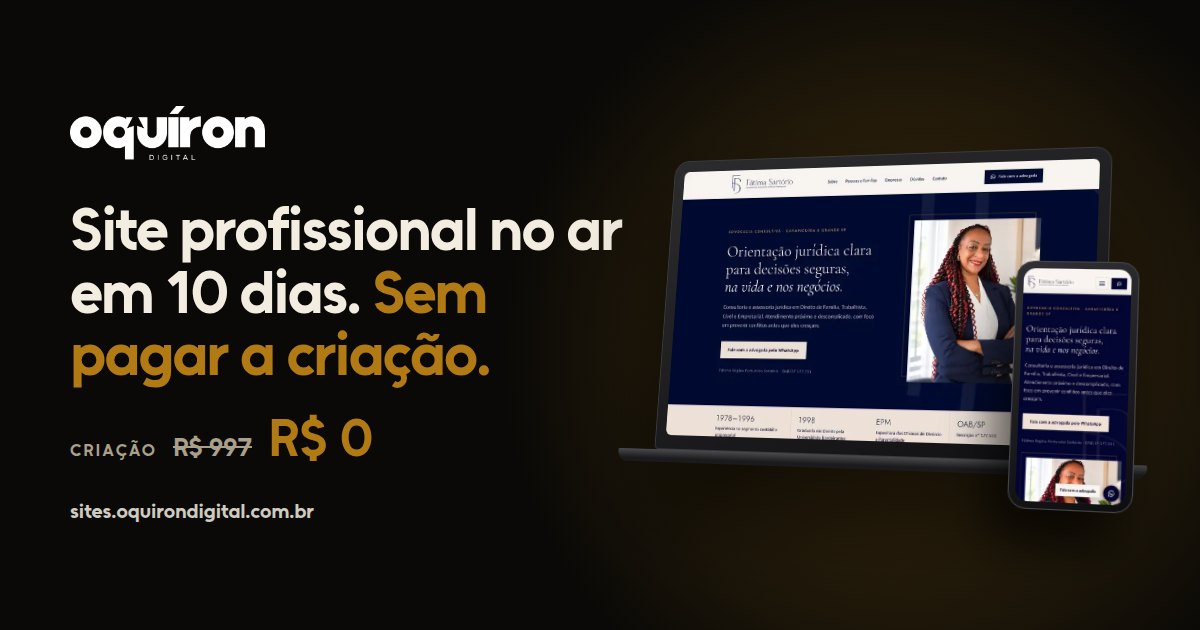
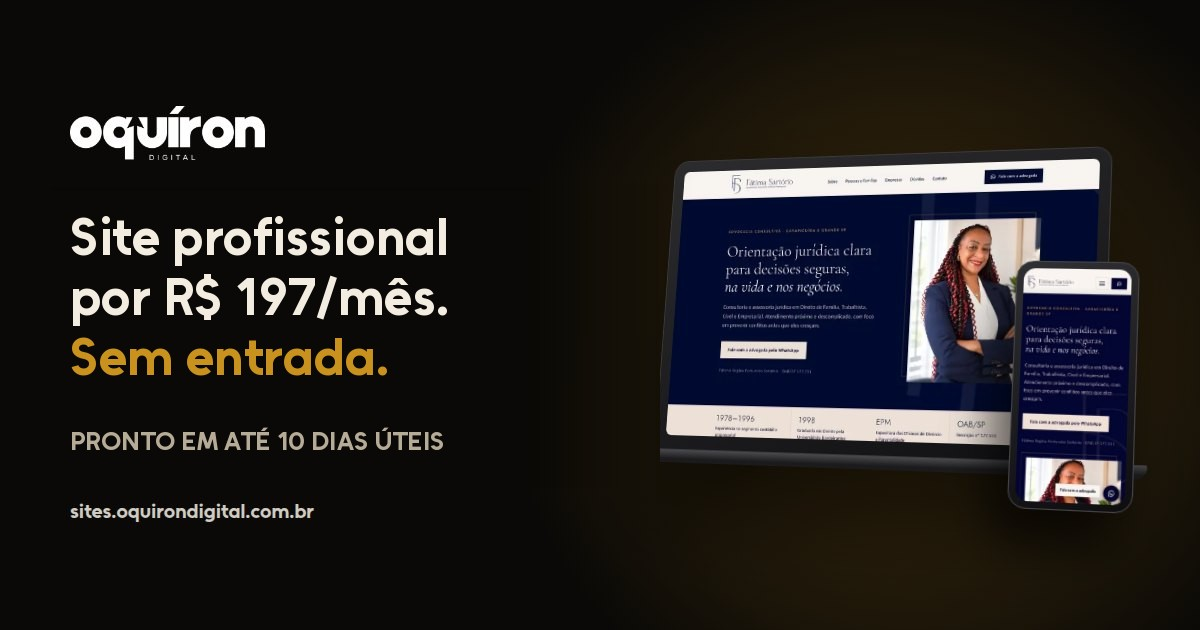
Copy da página: 'Sem entrada' no lugar de 'sem custo de criação'
Claude-Session: https://claude.ai/code/session_01MtVdoYruserTFVf1HoJ1cM

Changed region(s): [[0.0617, 0.3317, 0.5242, 0.6333], [0.0617, 0.6635, 0.37, 0.7238], [0.4933, 0.6937, 0.555, 0.7238]]

diff --git a/index.html b/index.html
@@ -3,10 +3,10 @@
 <head>
 <meta charset="utf-8">
 <meta name="viewport" content="width=device-width, initial-scale=1, viewport-fit=cover">
-<title>Site Profissional Sem Custo de Criação · Oquíron Digital</title>
-<meta name="description" content="Site profissional sem pagar a criação. R$ 197/mês com domínio, hospedagem e alterações inclusas. Otimizada para o Google e para assistentes de IA. Oquíron Digital, Chapecó/SC.">
-<meta property="og:title" content="Site profissional no ar em 10 dias, sem pagar a criação">
-<meta property="og:description" content="R$ 0 de criação. R$ 197/mês com domínio, hospedagem e alterações inclusas.">
+<title>Site Profissional por R$ 197/mês, Sem Entrada · Oquíron Digital</title>
+<meta name="description" content="Site profissional por R$ 197/mês, sem entrada, com domínio, hospedagem e alterações inclusas. Otimizada para o Google e para assistentes de IA. Oquíron Digital, Chapecó/SC.">
+<meta property="og:title" content="Site profissional por R$ 197/mês. Sem entrada.">
+<meta property="og:description" content="Sem entrada. Pronto em até 10 dias úteis, com domínio, hospedagem e alterações inclusas.">
 <meta property="og:type" content="website">
 <meta property="og:url" content="https://sites.oquirondigital.com.br/">
 <meta property="og:site_name" content="Oquíron Digital">
@@ -14,7 +14,7 @@
 <meta property="og:image" content="https://sites.oquirondigital.com.br/compartilhar.jpg">
 <meta property="og:image:width" content="1200">
 <meta property="og:image:height" content="630">
-<meta property="og:image:alt" content="Site profissional no ar em 10 dias, sem pagar a criação. Oquíron Digital.">
+<meta property="og:image:alt" content="Site profissional por R$ 197/mês. Sem entrada. Oquíron Digital.">
 <meta name="twitter:card" content="summary_large_image">
 <meta name="twitter:image" content="https://sites.oquirondigital.com.br/compartilhar.jpg">
 <link rel="canonical" href="https://sites.oquirondigital.com.br/">
@@ -339,7 +339,7 @@ header.top .logo { animation: fade .8s ease both; }
 .price s { text-decoration: none; position: relative; display: inline-block; }
 .price s::after { content: ""; position: absolute; left: -3px; right: -3px; top: 52%; height: 2px; background: var(--gold); transform: scaleX(0); transform-origin: left; animation: strike .5s ease-out 1.3s forwards; }
 @keyframes strike { to { transform: scaleX(1); } }
-.price .v.gold { display: inline-block; animation: pop .6s cubic-bezier(.2,1.5,.4,1) 1.75s both; }
+.price .v.gold { display: inline-block; animation: pop .6s cubic-bezier(.2,1.5,.4,1) .5s both; }
 @keyframes pop { from { opacity: 0; transform: scale(.5); } to { opacity: 1; transform: scale(1); } }
 
 /* brilho que atravessa o botão principal */
@@ -508,10 +508,10 @@ header.top .logo { animation: fade .8s ease both; }
       <div class="xp-text"><div class="xp-in">
   <section class="hero" aria-label="Oferta">
     <p class="eyebrow">Site profissional</p>
-    <h1>Site profissional no ar em 10 dias. <em>Sem pagar a criação.</em></h1>
+    <h1>Site profissional no ar em até 10 dias úteis. <em>Sem entrada.</em></h1>
     <p class="sub">A gente cria, hospeda e cuida do site da sua empresa. Você paga R$ 197 por mês e não se preocupa com mais nada.</p>
     <div class="price">
-      <div><span class="lbl">Criação</span><s>R$ 997</s><span class="v gold">R$ 0</span></div>
+      <div><span class="lbl">Entrada</span><span class="v gold">R$ 0</span></div>
     </div>
     <p class="perday">Menos de R$ 6,60 por dia para ter um site profissional, rápido e que muda a forma como o cliente vê o seu negócio.</p>
     <div class="cta">
@@ -541,12 +541,12 @@ header.top .logo { animation: fade .8s ease both; }
     <h2 id="h-plan">Comece pagando só <em>a primeira mensalidade.</em></h2>
     <div class="plans">
       <article class="plan star">
-        <span class="badge">Sem custo de criação</span>
+        <span class="badge">Sem entrada</span>
         <h3>Plano mensal</h3>
         <div class="big">R$ 197<small> /mês</small></div>
         <p class="then">nos 12 primeiros meses. Depois, <b>cai para R$ 100/mês</b> e o site é seu.</p>
         <ul>
-          <li>Nenhum valor de criação</li>
+          <li>Criação diluída na mensalidade</li>
           <li>Contrato de 12 meses</li>
           <li>1ª mensalidade no fechamento</li>
           <li>Pix Automático ou cartão de crédito</li>
@@ -731,7 +731,7 @@ header.top .logo { animation: fade .8s ease both; }
    Número com DDI + DDD, só dígitos. Ex.: 5549999999999
    ============================================================ */
 var WHATSAPP_NUMERO = '5549991764543';
-var WHATSAPP_MENSAGEM = 'Olá! Vi a página do site sem custo de criação e quero garantir o meu.';
+var WHATSAPP_MENSAGEM = 'Olá! Vi a página do site por R$ 197/mês e quero garantir o meu.';
 var WHATSAPP_PREVIA = 'Olá! Quero ver uma prévia de como ficaria o site da minha empresa.';
 
 (function () {
